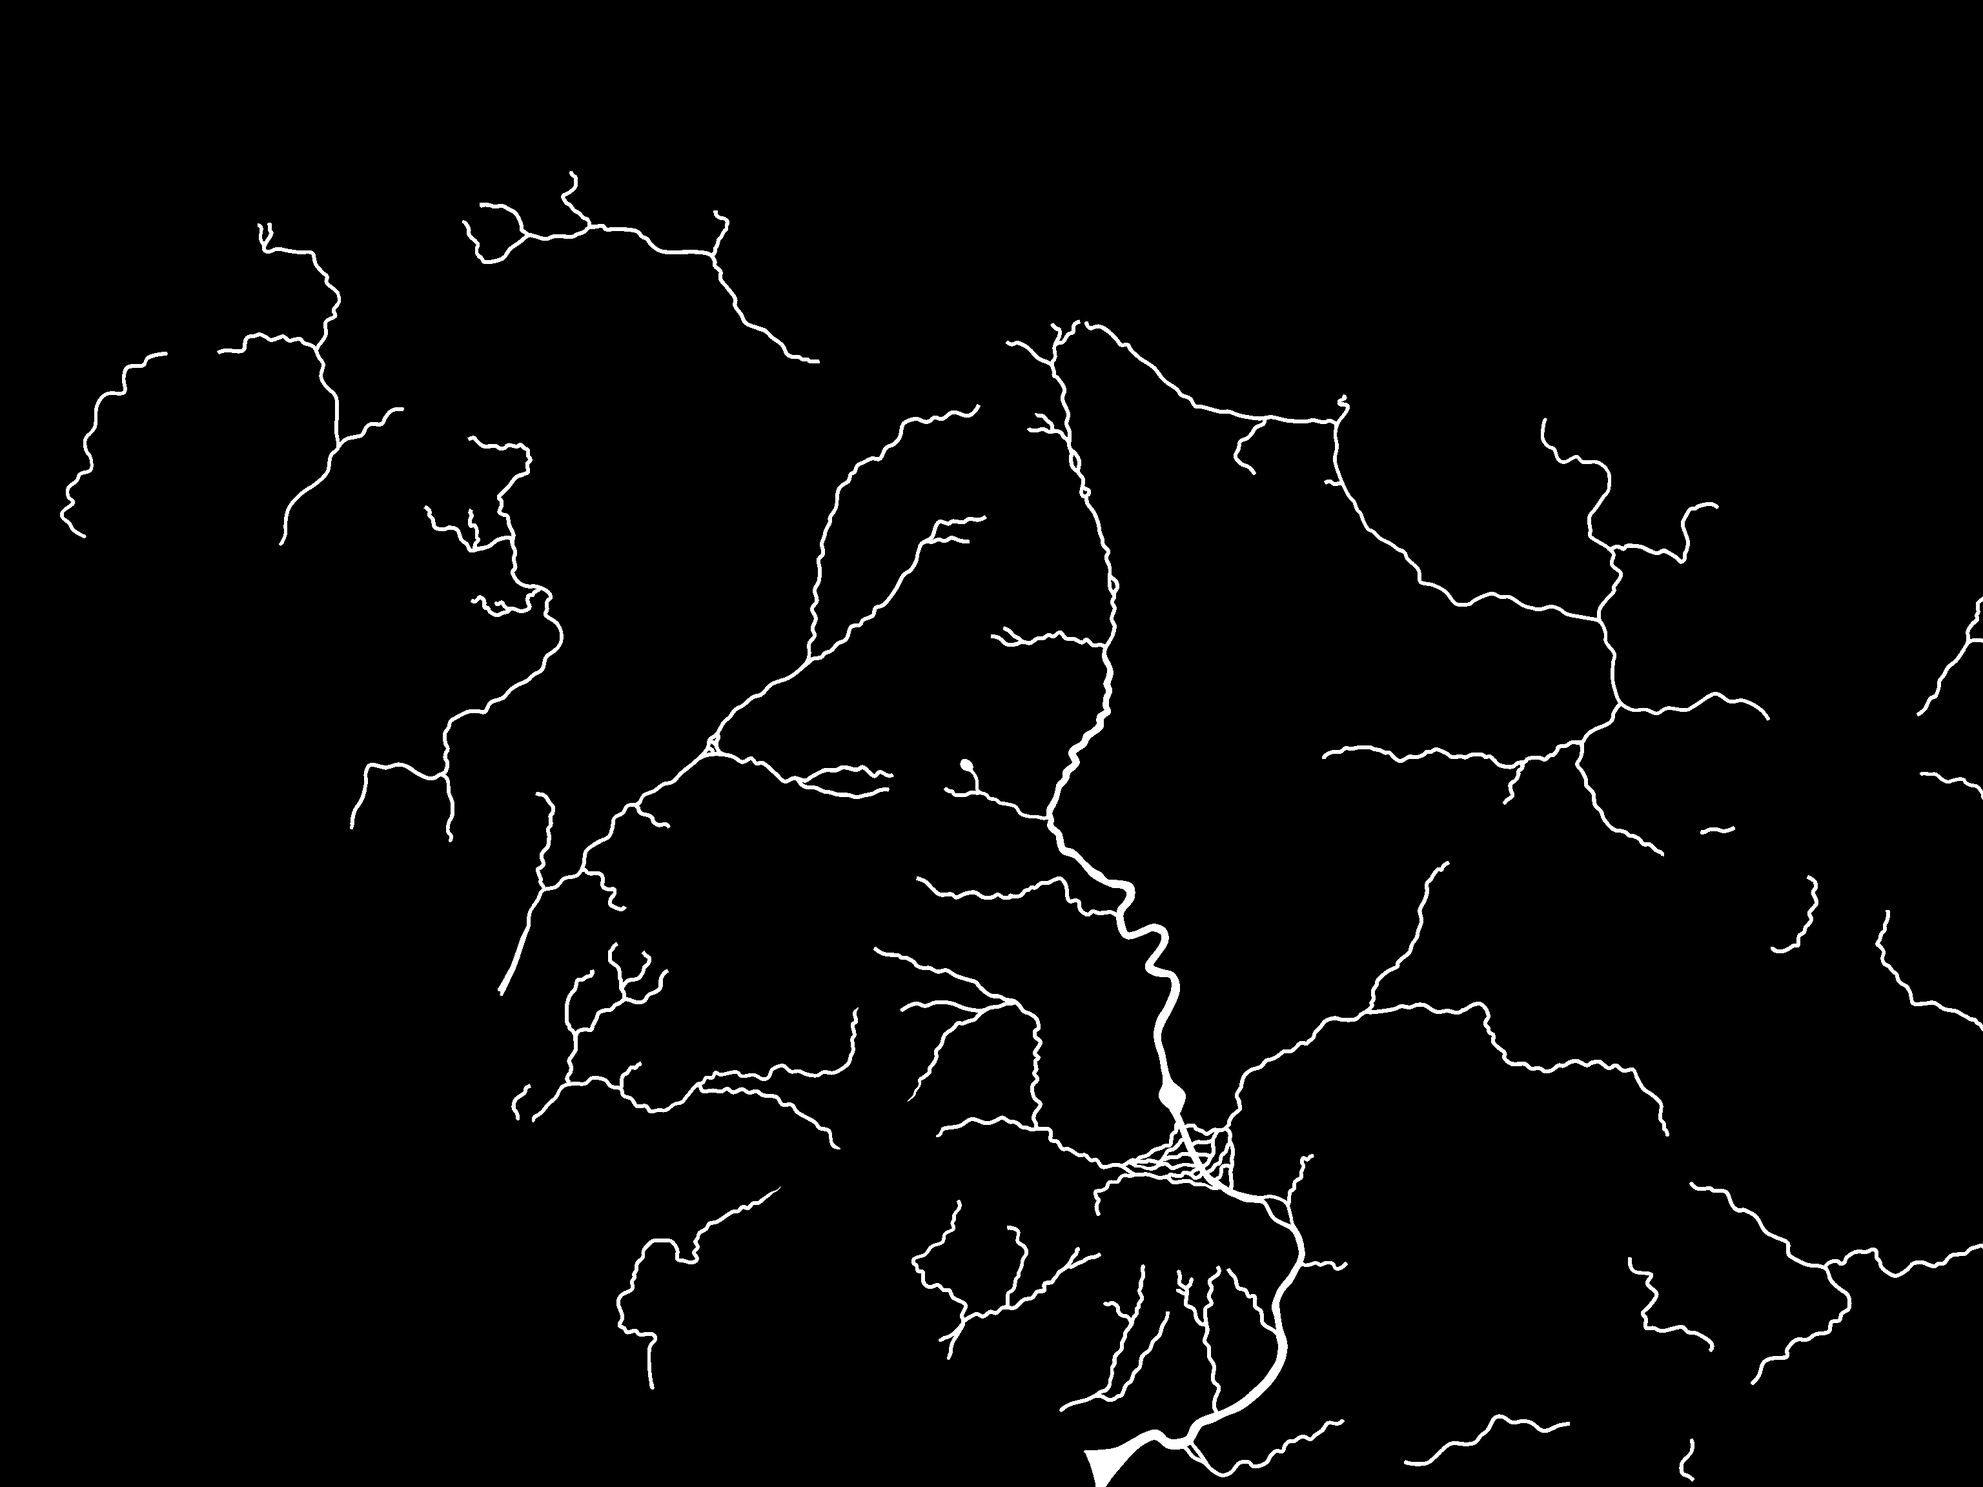
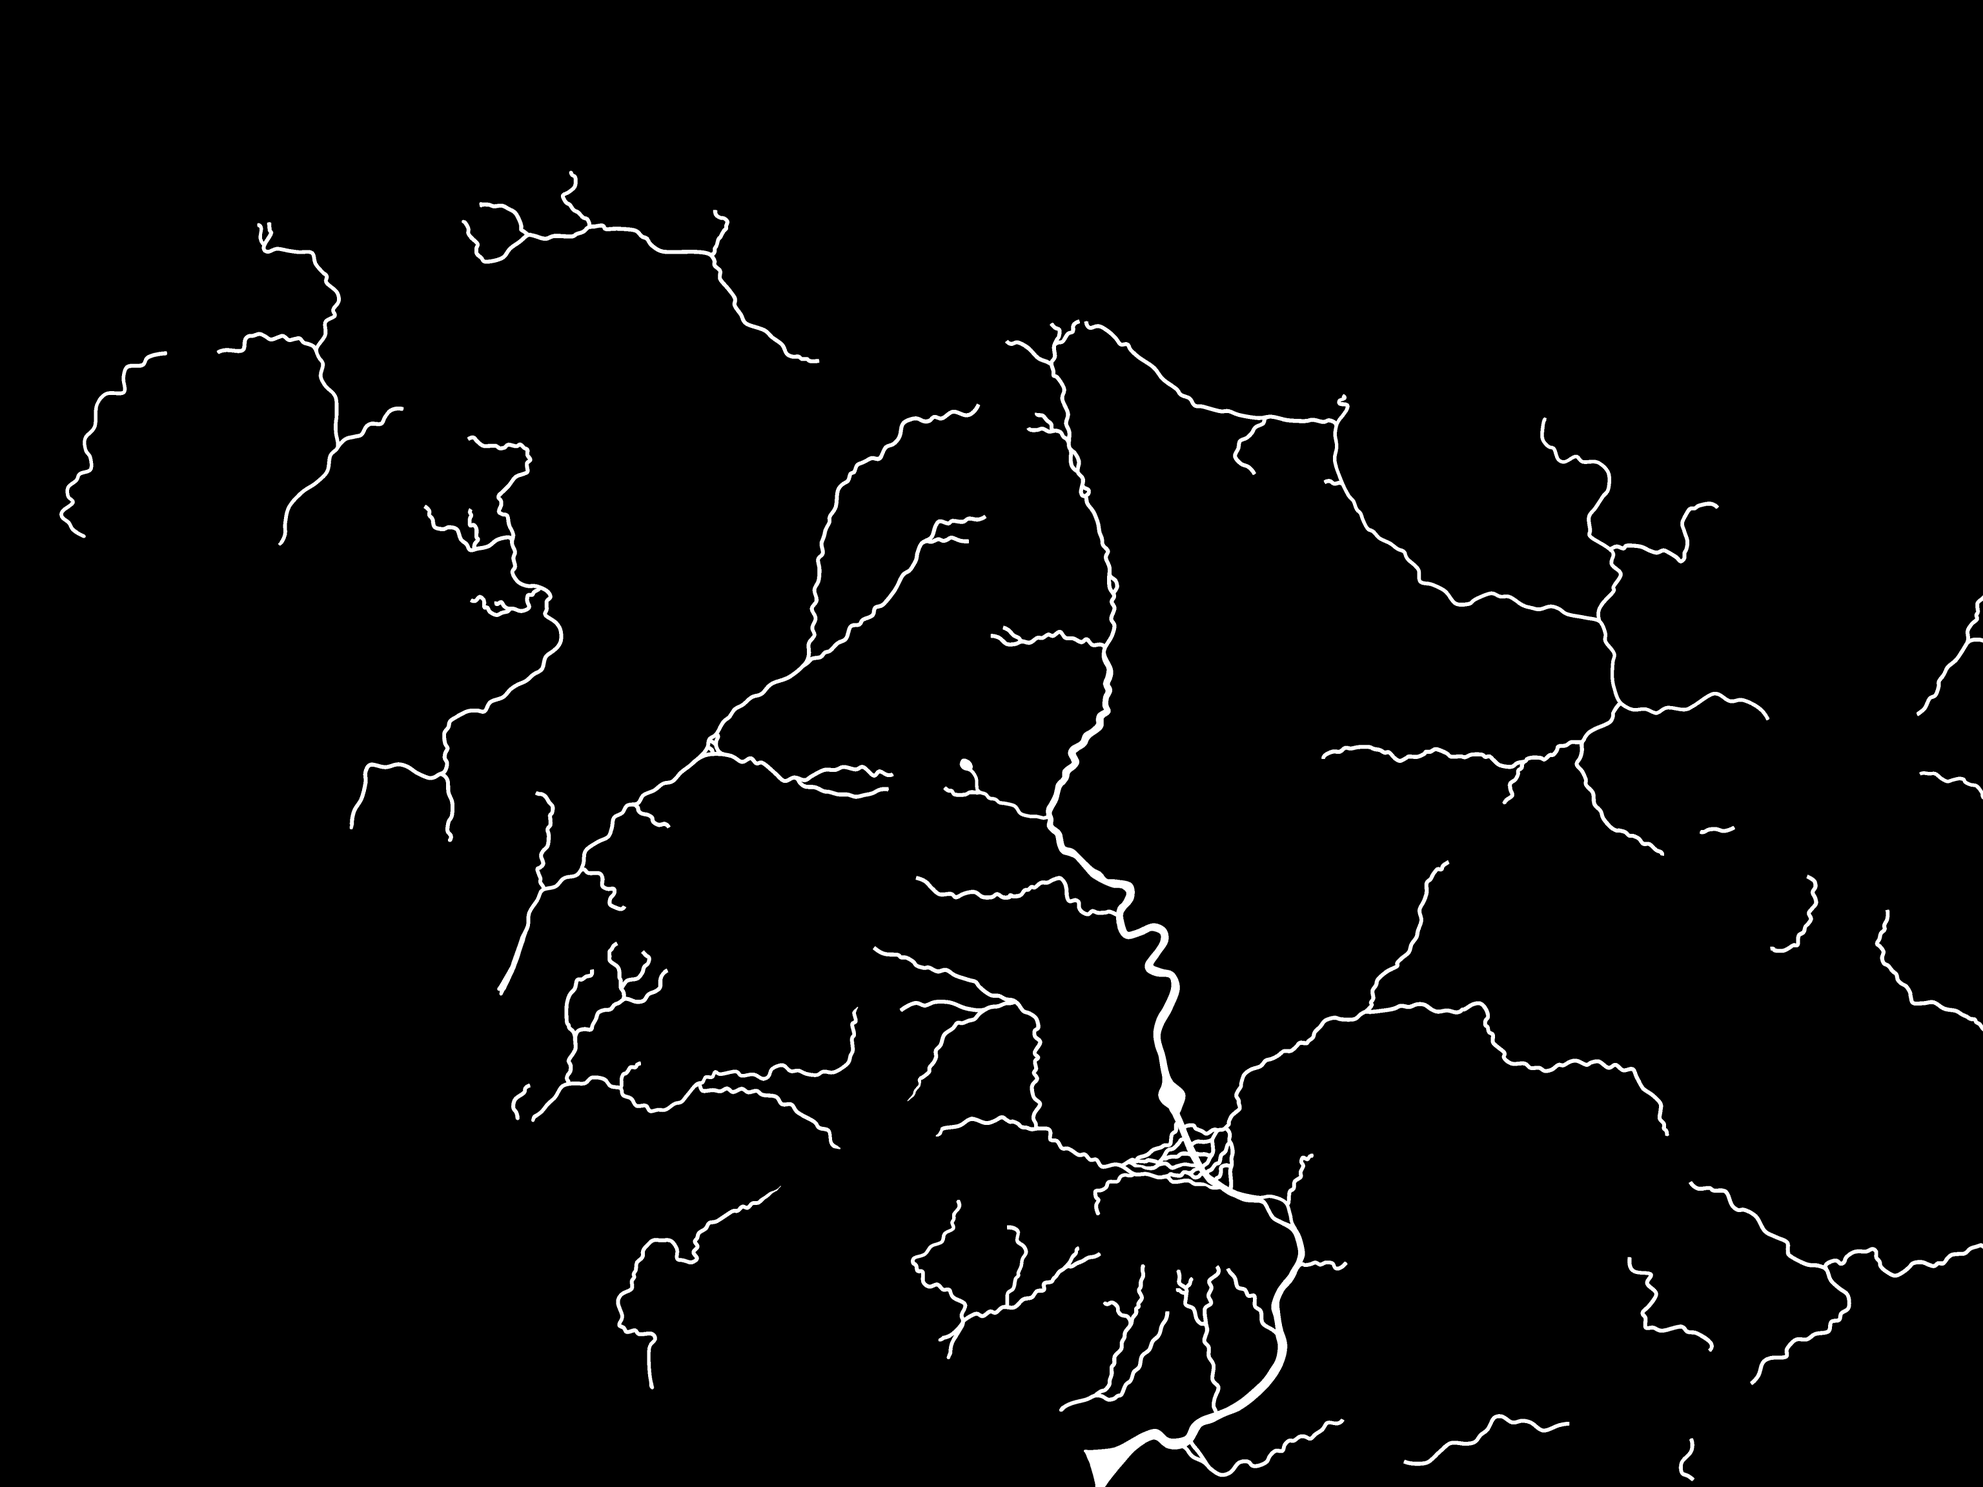
Read the river and lake masks as cover, so a bank lands where the drawing put it.
The terrain is meant to fall as close to the masks as possible: taken as one sample per eight-block
cell, every bank could only be a step of eight blocks, which on a river running obliquely is a
staircase rather than a river. Baking the share of each cell the drawing marks and interpolating it
lets the water's edge follow the drawn line, and the threshold at a third of a cell keeps thin
tributaries as channels.

Generated with Codebuff 🤖

diff --git a/src/main/java/com/greatorator/tolkienmobs/world/registration/ArdaMasks.java b/src/main/java/com/greatorator/tolkienmobs/world/registration/ArdaMasks.java
@@ -9,11 +9,11 @@ import java.io.InputStream;
  * The reference masks, as world generation reads them.
  * <p>
  * Arda's ground began as a hand-drawn 48 by 36 grid with seven river polylines on it. The maps the
- * world was drawn from are rasters, and they are read here instead: a river mask, a lake mask, and a
- * mountain mask whose brightness is height - white is summit, black is plain. All three cover the
+ * world was drawn from are rasters, and they are read here instead: a river mask and a lake mask, which
+ * say how much of each cell the drawing marks, and a mountain mask that is reference only now. All cover the
  * world's own frame at {@link #BLOCKS} blocks to the pixel, which is x -5120..19456 by
  * z -10240..8192, or 3072 by 2304 pixels, and they are baked from the 8192 originals by
- * {@code tools/arda_masks.py} using the calibration in {@code reference/work/calibration.json}.
+ * {@code tools/arda_masks.py} using the calibration in {@code Reference/work/calibration.json}.
  * <p>
  * Nothing here is fatal. A missing image leaves its mask empty and the drawing answers as it did
  * before, so a build without the assets still makes a world.
@@ -26,12 +26,13 @@ final class ArdaMasks {
     private static final int WIDTH = (19456 - WEST) / BLOCKS;
     private static final int HEIGHT = (8192 - NORTH) / BLOCKS;
 
-    private static final boolean[] RIVERS = bits("rivers.png");
+    /** The rivers and lakes masks: the share of each cell the drawing marks, 0 to 255. */
+    private static final byte[] RIVERS = coverage("rivers.png");
     /**
      * The Bruinen's own corner, baked again at three blocks to the pixel and read over its own window.
      * <p>
-     * Sixteen-block pixels cannot place a channel twelve blocks wide: the mask says a river runs through
-     * a sixteen-block square, and the river the city runs out to has to be met block for block. So the
+     * Eight-block pixels cannot place a channel twelve blocks wide: the mask says a river runs through
+     * an eight-block square, and the river the city runs out to has to be met block for block. So the
      * corner of the map the city stands in has a fine bake of its own, and inside that window it answers
      * instead of the coarse one.
      */
@@ -41,7 +42,15 @@ final class ArdaMasks {
     private static final int BRUINEN_WIDE = (5400 - BRUINEN_WEST) / BRUINEN_BLOCKS;
     private static final int BRUINEN_DEEP = (-2900 - BRUINEN_NORTH) / BRUINEN_BLOCKS;
     private static final boolean[] BRUINEN = fine("bruinen.png");
-    private static final boolean[] LAKES = bits("lakes.png");
+    private static final byte[] LAKES = coverage("lakes.png");
+    /**
+     * How much of a cell the drawing has to mark before the game calls it water.
+     * <p>
+     * Cells are eight blocks across and the drawing's own pixel is four, so a river crossing a cell
+     * covers half of it, and a thin tributary drawn along a cell's middle covers a third. Held at a
+     * third, the tributary is still a channel and a wide river's bank falls just outside the line drawn.
+     */
+    private static final double WATER = 0.3D;
 
     /** The topography, unsigned 16-bit at BLOCKS to the pixel; sea is zero. */
     private static final char[] GROUND = ground("height.png");
@@ -58,19 +67,19 @@ final class ArdaMasks {
         if (column >= 0 && column < BRUINEN_WIDE && row >= 0 && row < BRUINEN_DEEP) {
             return BRUINEN[row * BRUINEN_WIDE + column];
         }
-        return marked(RIVERS, blockX, blockZ);
+        return cover(RIVERS, blockX, blockZ) >= WATER;
     }
 
     /** Whether the lake mask covers a column. */
     static boolean lake(int blockX, int blockZ) {
-        return marked(LAKES, blockX, blockZ);
+        return cover(LAKES, blockX, blockZ) >= WATER;
     }
 
     /**
      * The heightmap at a block column, interpolated between its pixels, or {@link #NO_GROUND} at sea.
      * <p>
-     * The map is read at sixteen blocks to the pixel, so a value taken nearest would step the ground a
-     * pixel at a time and make terraces with a sixteen-block tread. Interpolation costs three multiplies
+     * The map is read at eight blocks to the pixel, so a value taken nearest would step the ground a
+     * pixel at a time and make terraces with an eight-block tread. Interpolation costs three multiplies
      * and turns those steps into the slope the map actually draws.
      */
     static int ground(int blockX, int blockZ) {
@@ -108,31 +117,46 @@ final class ArdaMasks {
         return raster;
     }
 
-    private static boolean marked(boolean[] mask, int blockX, int blockZ) {
-        int column = column(blockX);
-        int row = row(blockZ);
-        return column >= 0 && row >= 0 && mask[row * WIDTH + column];
+    /**
+     * How much of the cell under a column the mask marks, read between the cells round it.
+     * <p>
+     * A cell's share stands at its middle, so a bank falls between two cells instead of snapping onto
+     * one: read nearest, every edge is a step of eight blocks, and a river running obliquely - which is
+     * most of them - is a staircase rather than a river.
+     */
+    private static double cover(byte[] mask, int blockX, int blockZ) {
+        if (mask.length == 0) {
+            return 0.0D;
+        }
+        double across = (blockX - WEST) / (double) BLOCKS - 0.5D;
+        double along = (blockZ - NORTH) / (double) BLOCKS - 0.5D;
+        if (across < -0.5D || along < -0.5D || across > WIDTH - 0.5D || along > HEIGHT - 0.5D) {
+            return 0.0D;
+        }
+        int west = (int) Math.floor(Math.max(0.0D, across));
+        int north = (int) Math.floor(Math.max(0.0D, along));
+        int east = Math.min(WIDTH - 1, west + 1);
+        int south = Math.min(HEIGHT - 1, north + 1);
+        double shareX = Math.min(1.0D, Math.max(0.0D, across - west));
+        double shareZ = Math.min(1.0D, Math.max(0.0D, along - north));
+        double north1 = share(mask, north, west, east, shareX);
+        double south1 = share(mask, south, west, east, shareX);
+        return (north1 * (1.0D - shareZ) + south1 * shareZ) / 255.0D;
     }
 
-    private static int column(int blockX) {
-        int column = Math.floorDiv(blockX - WEST, BLOCKS);
-        return column >= 0 && column < WIDTH ? column : -1;
+    private static double share(byte[] mask, int row, int west, int east, double shareX) {
+        return (mask[row * WIDTH + west] & 0xFF) * (1.0D - shareX) + (mask[row * WIDTH + east] & 0xFF) * shareX;
     }
 
-    private static int row(int blockZ) {
-        int row = Math.floorDiv(blockZ - NORTH, BLOCKS);
-        return row >= 0 && row < HEIGHT ? row : -1;
-    }
-
-    private static boolean[] bits(String name) {
-        boolean[] mask = new boolean[WIDTH * HEIGHT];
+    private static byte[] coverage(String name) {
         BufferedImage image = read(name);
         if (image == null) {
-            return mask;
+            return new byte[0];
         }
+        byte[] mask = new byte[WIDTH * HEIGHT];
         for (int y = 0; y < HEIGHT; y++) {
             for (int x = 0; x < WIDTH; x++) {
-                mask[y * WIDTH + x] = (image.getRGB(x, y) & 0xFF) > 100;
+                mask[y * WIDTH + x] = (byte) (image.getRGB(x, y) & 0xFF);
             }
         }
         return mask;

diff --git a/tools/arda_masks.py b/tools/arda_masks.py
@@ -5,8 +5,10 @@ records the transform (about four blocks per pixel, origin -7546, -13561). This 
 each mask to the world frame at a fixed number of blocks per pixel and writes it as a PNG next
 to the mod's other assets, which is the only form the game can read.
 
-Four layers come out of it: the rivers and lakes masks as one bit each, the mountain mask as
-eight-bit brightness (white is a crest), and the topography as unsigned sixteen-bit.
+Four layers come out of it: the rivers and lakes masks as cover - how much of each cell the
+drawing marks, so a bank falls where the drawing put it instead of on the cell grid - the
+mountain mask as eight-bit brightness (white is a crest), and the topography as unsigned
+sixteen-bit.
 
 Run it from the mod root:  python tools/arda_masks.py
 """
@@ -25,9 +27,12 @@ BLOCKS_PER_PIXEL = 8
 WORLD_X0, WORLD_X1 = -5120, 19456
 WORLD_Z0, WORLD_Z1 = -10240, 8192
 
-# The river the hand-built city runs out to. A twelve-block channel cannot be placed on the sixteen-block
-# pixels the whole frame is baked at, so the Bruinen's own corner is baked a second time, finer, on its
-# own: three blocks to the pixel, which is close to the reference's own 3.95 and small enough to read.
+# Cover a cell needs before the game calls it water, in the 0-255 the mask is written in.
+WATER = 77
+
+# The river the hand-built city runs out to. A twelve-block channel cannot be placed on the
+# eight-block pixels the whole frame is baked at, so the Bruinen's own corner is baked a second
+# time, finer, on its own: three blocks to the pixel, which is close to the reference's own 3.95.
 BRUINEN_X0, BRUINEN_X1 = 4200, 5400
 BRUINEN_Z0, BRUINEN_Z1 = -4100, -2900
 BRUINEN_BLOCKS = 3
@@ -56,6 +61,35 @@ def crop(path, sx, ox, sz, oz, threshold=None):
     return out
 
 
+def coverage(path, sx, ox, sz, oz, threshold=100, subsamples=4, chunk=128):
+    """How much of each cell the mask marks, 0-255.
+
+    A cell is eight blocks across and the mask's own pixel is about four, so a river crossing a cell
+    marks half of it and one running along its edge marks a quarter. Taken as one sample, nearest,
+    every one of those becomes a whole cell and the bank steps eight blocks at a time; kept as a
+    share, the bank can land where the drawing actually put it.
+    """
+    width = (WORLD_X1 - WORLD_X0) // BLOCKS_PER_PIXEL
+    height = (WORLD_Z1 - WORLD_Z0) // BLOCKS_PER_PIXEL
+    source = np.array(Image.open(path).convert("L"))
+    step = BLOCKS_PER_PIXEL / float(subsamples)
+    offsets = (np.arange(subsamples) + 0.5) * step
+    xs = (np.arange(width) * BLOCKS_PER_PIXEL + WORLD_X0)[:, None] + offsets[None, :]
+    columns = np.clip(((xs - ox) / sx).astype(int), 0, source.shape[1] - 1)
+    out = np.zeros((height, width), np.uint8)
+    total = float(subsamples * subsamples)
+    for row0 in range(0, height, chunk):
+        row1 = min(height, row0 + chunk)
+        zs = (np.arange(row0, row1) * BLOCKS_PER_PIXEL + WORLD_Z0)[:, None] + offsets[None, :]
+        rows = np.clip(((zs - oz) / sz).astype(int), 0, source.shape[0] - 1)
+        covered = np.zeros((row1 - row0, width), np.uint16)
+        for a in range(subsamples):
+            for b in range(subsamples):
+                covered += source[np.ix_(rows[:, a], columns[:, b])] > threshold
+        out[row0:row1] = np.round(covered * (255.0 / total)).astype(np.uint8)
+    return out
+
+
 def window(path, sx, ox, sz, oz, x0, x1, z0, z1, blocks, threshold):
     """One corner of a mask, at a finer blocks-to-the-pixel than the whole frame is baked at."""
     source = np.array(Image.open(path).convert("L"))
@@ -69,24 +103,33 @@ def window(path, sx, ox, sz, oz, x0, x1, z0, z1, blocks, threshold):
     return np.where(out > threshold, 255, 0).astype(np.uint8)
 
 
+def report(name, image, path, raster):
+    extra = ""
+    if raster.dtype == np.uint8 and image.mode == "L":
+        extra = " water %5.1f%%" % (100.0 * (raster >= WATER).mean())
+    print("%-13s %dx%d %-6s %5.1f%% marked%s  %7.1f kB" % (
+        name, image.size[0], image.size[1], image.mode, 100.0 * (raster > 0).mean(), extra,
+        os.path.getsize(path) / 1024.0))
+
+
 def main():
     os.makedirs(OUT, exist_ok=True)
     sx, ox, sz, oz = calibration()
-    jobs = [
-        ("ME_SimpleTopoTerrain_Rivers_albedo.png", "rivers.png", 100, False),
-        ("ME_SimpleTopoTerrain_Lakes_albedo.png", "lakes.png", 100, False),
-        ("AreaMasks_westernMountain.png", "mountains.png", None, True),
-        ("Final Height.png", "height.png", None, True),
-    ]
-    for source, name, threshold, graded in jobs:
-        raster = crop(os.path.join(REFERENCE, source), sx, ox, sz, oz, threshold)
-        image = Image.fromarray(raster) if graded else Image.fromarray((raster > 0).astype(np.uint8) * 255)
+    for source, name in (("ME_SimpleTopoTerrain_Rivers_albedo.png", "rivers.png"),
+                         ("ME_SimpleTopoTerrain_Lakes_albedo.png", "lakes.png")):
+        raster = coverage(os.path.join(REFERENCE, source), sx, ox, sz, oz)
+        image = Image.fromarray(raster)
         path = os.path.join(OUT, name)
         image.save(path)
-        marked = (raster > 0).mean()
-        print("%-13s %dx%d %-6s %5.1f%% marked  %7.1f kB" % (
-            name, image.size[0], image.size[1], image.mode, 100 * marked,
-            os.path.getsize(path) / 1024.0))
+        report(name, image, path, raster)
+    for source, name in (("AreaMasks_westernMountain.png", "mountains.png"),
+                         ("Final Height.png", "height.png")):
+        raster = crop(os.path.join(REFERENCE, source), sx, ox, sz, oz)
+        image = Image.fromarray(raster)
+        path = os.path.join(OUT, name)
+        image.save(path)
+        print("%-13s %dx%d %-6s %7.1f kB" % (name, image.size[0], image.size[1], image.mode,
+                                             os.path.getsize(path) / 1024.0))
     raster = window(os.path.join(REFERENCE, "ME_SimpleTopoTerrain_Rivers_albedo.png"), sx, ox, sz, oz,
                     BRUINEN_X0, BRUINEN_X1, BRUINEN_Z0, BRUINEN_Z1, BRUINEN_BLOCKS, 100)
     image = Image.fromarray((raster > 0).astype(np.uint8) * 255)

diff --git a/docs/arda-masks.md b/docs/arda-masks.md
@@ -67,15 +67,22 @@ it to be right: it reads `Reference/` directly, using the same calibration world
 
 | file | size | marked |
 | --- | --- | --- |
-| `rivers.png` | 53 kB | 2.2% |
+| `rivers.png` | 84 kB | 2.6% touched, 2.3% water |
 | `bruinen.png` | 1.4 kB | 4.3%, 400 x 400 at **3 blocks to the pixel** - the Bruinen's own corner |
-| `lakes.png` | 11 kB | 1.2% |
+| `lakes.png` | 13 kB | 1.2% water |
 | `mountains.png` | 363 kB | 23.8% above half brightness |
 | `height.png` | 7.9 MB, sixteen-bit topography | sea 16.8% of the frame |
 
 Run it from the mod root whenever the masks or `Reference/work/calibration.json` change. `ArdaMasks`
 reads whatever is in the assets; a missing image leaves that mask empty and the drawing answers as it
 did before.
+
+The rivers and lakes are written as **cover**: how much of each eight-block cell the drawing marks, from
+0 to 255. The game reads that share, interpolated between the cells round it, and calls a column water at a
+third of a cell — so a bank falls where the line was drawn rather than on the cell grid, and a tributary
+drawn along a cell's middle is still a channel. Measured on the bake: no cell the drawing touches is left
+without water beside it, and a channel runs a median of eight blocks across with a ninetieth percentile of
+twenty-one.
 
 The river and lake censuses below were taken at the sixteen-block bake; the rule they describe is the
 same at eight, and the counts have not been re-measured.

diff --git a/CHANGELOG.md b/CHANGELOG.md
@@ -5,6 +5,12 @@ All notable changes to this project will be documented in this file.
 ## [Unreleased]
 ### Added
 
+- **River and lake banks fall where the drawing put them.** The two masks are baked as the share of each
+  eight-block cell the drawing marks instead of one sample taken nearest, and the game reads that share
+  interpolated between cells and calls a column water at a third of one: an oblique river used to be a
+  staircase of eight-block steps, and its bank now follows the drawn line. No cell the drawing touches is
+  left stranded without water beside it, so a thin tributary is still a channel.
+
 - **The ground is the heightmap's own shape, read at eight blocks to the pixel.** The bake went from
   sixteen blocks to the pixel to eight, so ridges and river bends are twice as sharp, and the mountain
   mask no longer lifts a bright column toward the crown: that lift flattened every ridge it touched to the
